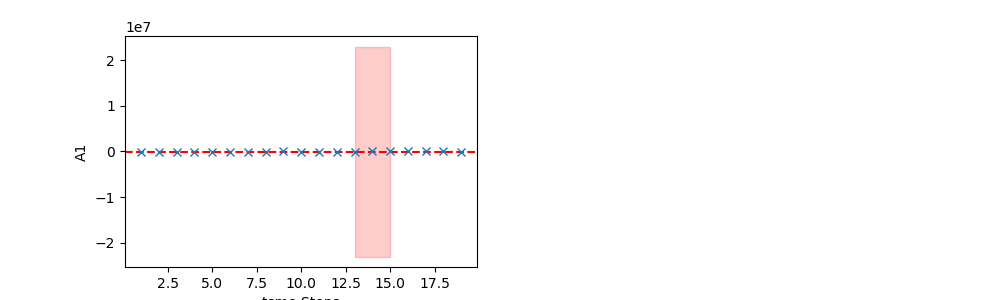
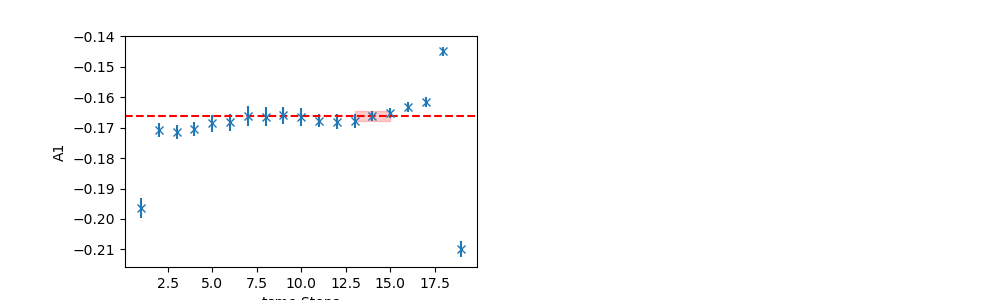
First run A1 fit corrected

diff --git a/C1/A1-Av-improved.py b/C1/A1-Av-improved.py
@@ -48,7 +48,7 @@ def sum_with_exceptions_jack(lst,j,i):
 
 
 #########decide here which nsq
-nsq=5
+nsq=0
 ##########
 
 
